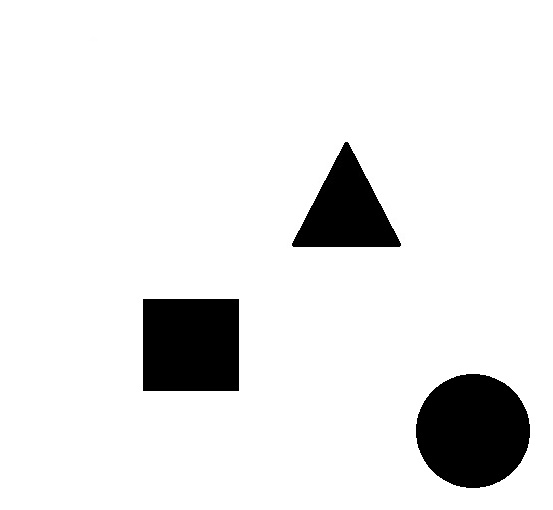
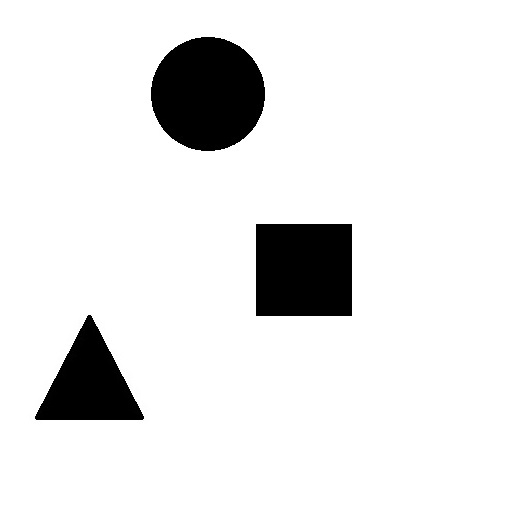
added color images

diff --git a/common_functions.py b/common_functions.py
@@ -12,9 +12,9 @@ YOLO_ANCHORS = np.array(
 def load_images():
     images = [
         #Image.open("train_images/1.jpg"),
-        Image.open("train_images/2.jpg"),
-        Image.open("train_images/3.jpg"),
-        Image.open("train_images/4.jpg")
+        Image.open("train_images/2c.jpg"),
+        Image.open("train_images/3c.jpg"),
+        Image.open("train_images/4c.jpg")
     ]
     orig_size_saved = np.array([images[0].width, images[0].height])
     orig_size = np.expand_dims(orig_size_saved, axis=0)
@@ -38,7 +38,7 @@ def get_boxes(orig_size):
             #[[0, 226, 128, 343, 243], [1, 23, 355, 135, 467]],
             [[1, 56, 117, 157, 215], [0, 225, 127, 342, 241], [2, 190, 320, 313, 440]],
             [[0, 36, 35, 158, 153], [2, 196, 169, 318, 290], [1, 372, 47, 474, 145]],
-            [[0, 286, 137, 409, 254], [1, 140, 295, 241, 394], [2, 410, 367, 540, 493]],
+            [[2, 143, 29, 276, 155], [1, 251, 218, 356, 321], [0, 26, 309, 152, 426]],
         ])
     # Get extents as y_min, x_min, y_max, x_max, class for comparision with
     # model output.

diff --git a/draw_test_images.py b/draw_test_images.py
@@ -18,7 +18,7 @@ from yad2k.utils.draw_boxes import draw_boxes
 from common_functions import load_images, get_boxes, get_detector_mask, get_classes, YOLO_ANCHORS
 
 OUT_PATH = "output_images"
-IMAGE_INDEX = 2
+IMAGE_INDEX = 1
 WEIGHTS_NAME = "overfit_weights.h5"
 
 
@@ -53,7 +53,7 @@ def _main():
     # Save images
     image_with_boxes = draw_boxes(curr_image[0], out_boxes, out_classes, class_names, out_scores)
     result_image = PIL.Image.fromarray(image_with_boxes)
-    result_image.save(os.path.join(OUT_PATH, str(IMAGE_INDEX) + '.png'))
+    result_image.save(os.path.join(OUT_PATH, str(IMAGE_INDEX) + 'c.png'))
 
 
 if __name__ == '__main__':

diff --git a/train_oleg_overfit.py b/train_oleg_overfit.py
@@ -23,7 +23,8 @@ from yad2k.models.keras_yolo import (preprocess_true_boxes, yolo_body,
 from yad2k.utils.draw_boxes import draw_boxes
 from common_functions import load_images, get_boxes, get_detector_mask, get_classes, YOLO_ANCHORS
 
-EPOH = 3000
+EPOH = 3150
+
 
 def _main():
 
